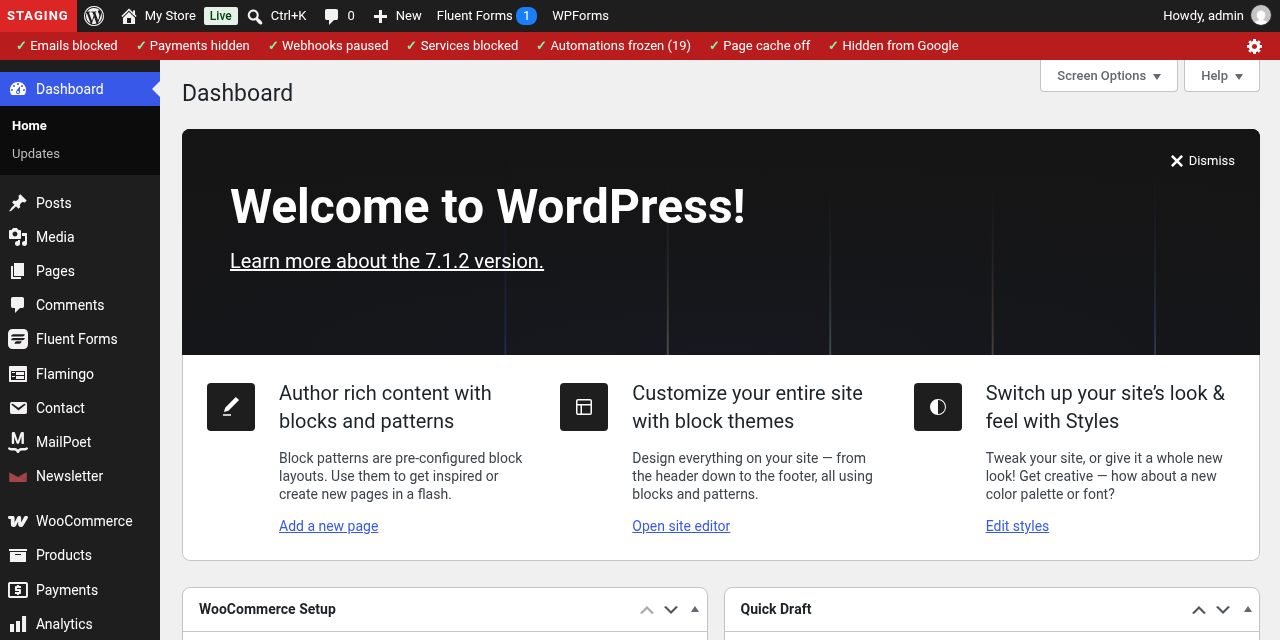
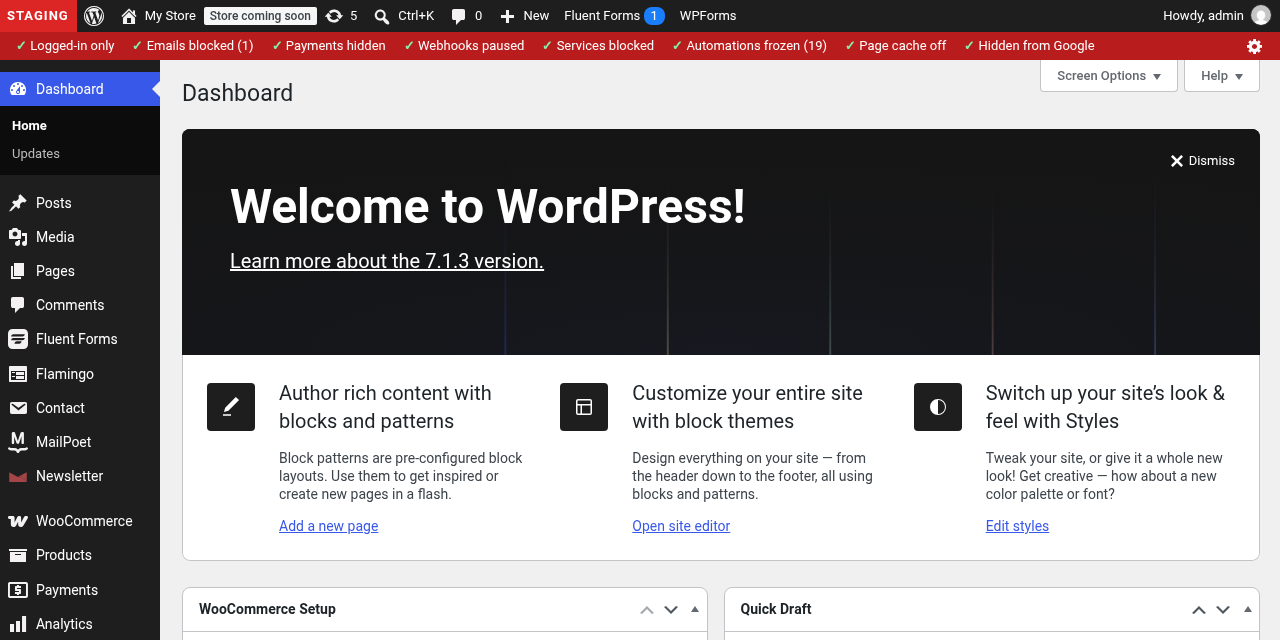
1.2.2: only logged-in users see staging by default; login pages and My Account stay reachable; Visitors item in the status bar

Changed region(s): [[0.0312, 0.0, 0.875, 0.0938]]

diff --git a/includes/sspw-visitors.php b/includes/sspw-visitors.php
@@ -7,10 +7,9 @@
 defined( 'ABSPATH' ) || exit;
 
 // The choice is read when the page is built, so an add-on's own choice (added on
-// sspw_loaded, after this file) is known by then.
+// sspw_loaded, after this file) is known by then. template_redirect never runs for
+// wp-admin, wp-login.php, admin-ajax, REST, cron or WP-CLI, so those stay reachable.
 add_action( 'template_redirect', 'sspw_visitor_page', -1000 );
-add_action( 'wp_login', 'sspw_remember_staff', 10, 2 );
-add_action( 'admin_init', 'sspw_remember_staff_session' );
 
 /**
  * Runs before plugins and themes build the page, so visitors never reach any of
@@ -22,11 +21,8 @@ function sspw_visitor_page() {
 		return;
 	}
 
-	// A browser someone on the team has logged in with goes to the login page,
-	// so an expired session does not hide the site from them behind the message.
-	if ( ! is_user_logged_in() && isset( $_COOKIE[ sspw_staff_cookie() ] ) ) {
-		wp_safe_redirect( wp_login_url( sspw_current_url() ), 302, 'Staging Superpowers' );
-		exit;
+	if ( sspw_visitor_path_allowed() ) {
+		return;
 	}
 
 	$name = get_bloginfo( 'name' );
@@ -82,29 +78,42 @@ function sspw_visitor_page() {
 }
 
 /**
- * Marks this browser as used by the team. It grants nothing: it only decides
- * whether a logged-out visit goes to the login page or to the message.
+ * Front-end pages logged-out visitors can still reach: the login page (also a
+ * custom one, through the login_url filter) and the WooCommerce My Account page,
+ * where many stores log in.
  */
-function sspw_staff_cookie() {
-	return 'sspw_staff_' . COOKIEHASH;
-}
+function sspw_visitor_path_allowed() {
+	$paths = array( (string) wp_parse_url( wp_login_url(), PHP_URL_PATH ) );
 
-function sspw_set_staff_cookie() {
-	setcookie( sspw_staff_cookie(), '1', time() + YEAR_IN_SECONDS, COOKIEPATH, COOKIE_DOMAIN, is_ssl(), true );
-}
-
-function sspw_remember_staff( $user_login, $user ) {
-	if ( user_can( $user, 'edit_posts' ) || user_can( $user, 'manage_options' ) || user_can( $user, 'manage_woocommerce' ) ) {
-		sspw_set_staff_cookie();
+	if ( function_exists( 'wc_get_page_permalink' ) && function_exists( 'wc_get_page_id' ) && wc_get_page_id( 'myaccount' ) > 0 ) {
+		$paths[] = (string) wp_parse_url( wc_get_page_permalink( 'myaccount' ), PHP_URL_PATH );
 	}
+
+	/**
+	 * Request paths logged-out visitors can still see, such as a custom login or
+	 * register page. Sub-paths are included: "/account" also allows "/account/lost-password".
+	 *
+	 * @param string[] $paths Paths like "/my-account".
+	 */
+	$paths = (array) apply_filters( 'sspw_visitor_allowed_paths', $paths );
+
+	$current = '/' . trim( (string) wp_parse_url( sspw_current_url(), PHP_URL_PATH ), '/' );
+	foreach ( $paths as $path ) {
+		$path = '/' . trim( (string) $path, '/' );
+		if ( '/' !== $path && ( $current === $path || 0 === strpos( $current . '/', $path . '/' ) ) ) {
+			return true;
+		}
+	}
+
+	return false;
 }
 
 /**
- * People already logged in when the plugin was turned on get the cookie on their
- * next admin page, without logging in again.
+ * Kept for add-ons written for 1.2.1 and earlier, which checked a "team browser"
+ * cookie. The cookie is no longer set, so checks against it simply never match.
+ *
+ * @deprecated 1.2.2
  */
-function sspw_remember_staff_session() {
-	if ( ! isset( $_COOKIE[ sspw_staff_cookie() ] ) && sspw_can_see_store() && ! wp_doing_ajax() && ! headers_sent() ) {
-		sspw_set_staff_cookie();
-	}
+function sspw_staff_cookie() {
+	return 'sspw_staff_' . COOKIEHASH;
 }

diff --git a/includes/sspw-settings.php b/includes/sspw-settings.php
@@ -94,7 +94,7 @@ function sspw_get( $key ) {
 		'sspw_noindex'            => 'yes',
 		'sspw_block_bots'         => 'yes',
 		'sspw_no_analytics'       => 'yes',
-		'sspw_visitors'           => 'open',
+		'sspw_visitors'           => 'lock',
 		'sspw_message_title'      => '',
 		'sspw_message_text'       => '',
 		'sspw_no_cache'           => 'yes',
@@ -235,7 +235,7 @@ function sspw_visitors_description() {
 
 	return sprintf(
 		/* translators: %s: login page link */
-		__( 'Who this applies to: anyone logged out, and accounts that cannot edit the site (customers, members, subscribers). Your team always sees the site once logged in at %s. Search engines are kept away either way.', 'staging-superpowers' ),
+		__( 'By default only your team sees this copy: anyone logged out, and accounts that cannot edit the site (customers, members, subscribers), get the message below instead. Log in at %s as usual: the login page, wp-admin and your WooCommerce My Account page always stay reachable. Search engines are kept away either way.', 'staging-superpowers' ),
 		'<a href="' . esc_url( $login ) . '">' . esc_html( preg_replace( '#^https?://#', '', $login ) ) . '</a>'
 	);
 }
@@ -300,8 +300,8 @@ function sspw_visitor_modes() {
 	return (array) apply_filters(
 		'sspw_visitor_modes',
 		array(
+			'lock' => __( 'Only logged-in users can see the site (recommended)', 'staging-superpowers' ),
 			'open' => __( 'Let everyone see the site', 'staging-superpowers' ),
-			'lock' => __( 'Show a message instead', 'staging-superpowers' ),
 		)
 	);
 }
@@ -385,7 +385,7 @@ function sspw_settings_fields() {
 			'id'      => 'sspw_visitors',
 			'type'    => 'select',
 			'css'     => 'min-width:440px;',
-			'default' => 'open',
+			'default' => 'lock',
 			'options' => sspw_visitor_modes(),
 		),
 		array(

diff --git a/includes/sspw-safety.php b/includes/sspw-safety.php
@@ -295,7 +295,15 @@ function sspw_status_items() {
 		$email_tips[ $email ] = sprintf( __( '%s replaces the WordPress email function, so its emails may still go out. See the Emails settings.', 'staging-superpowers' ), $mail_owner );
 	}
 
+	$visitors_locked = 'lock' === sspw_get( 'sspw_visitors' );
+
 	$items = array(
+		array(
+			'on'    => $visitors_locked,
+			'label' => $visitors_locked ? __( 'Logged-in only', 'staging-superpowers' ) : __( 'Open to everyone', 'staging-superpowers' ),
+			'tip'   => $visitors_locked ? __( 'Logged-out visitors and customers see a message instead of this copy.', 'staging-superpowers' ) : __( 'Anyone can browse this copy, including customers who land here by mistake.', 'staging-superpowers' ),
+			'url'   => $links['settings'] . '#sspw_visitors',
+		),
 		array(
 			'on'    => in_array( $email, array( 'block', 'redirect' ), true ),
 			'label' => $email_count && in_array( $email, array( 'block', 'redirect' ), true ) ? sprintf( '%1$s (%2$s)', $email_labels[ $email ], number_format_i18n( $email_count ) ) : $email_labels[ $email ],

diff --git a/staging-superpowers.php b/staging-superpowers.php
@@ -2,7 +2,7 @@
 /**
  * Plugin Name:          Staging Superpowers
  * Description:          Make a staging copy of your site safe to test on: block emails, block outside services, freeze scheduled tasks and hide staging from search engines. With WooCommerce, it also swaps payment methods for a test gateway and pauses webhooks.
- * Version:              1.2.1
+ * Version:              1.2.2
  * Requires at least:    6.5
  * Requires PHP:         7.4
  * WC requires at least: 8.0
@@ -22,7 +22,7 @@ if ( defined( 'SSPW_PLUGIN_FILE' ) ) {
 	return;
 }
 
-define( 'SSPW_VERSION', '1.2.1' );
+define( 'SSPW_VERSION', '1.2.2' );
 define( 'SSPW_PLUGIN_FILE', __FILE__ );
 define( 'SSPW_PLUGIN_DIR', plugin_dir_path( __FILE__ ) );
 define( 'SSPW_PLUGIN_URL', plugin_dir_url( __FILE__ ) );
